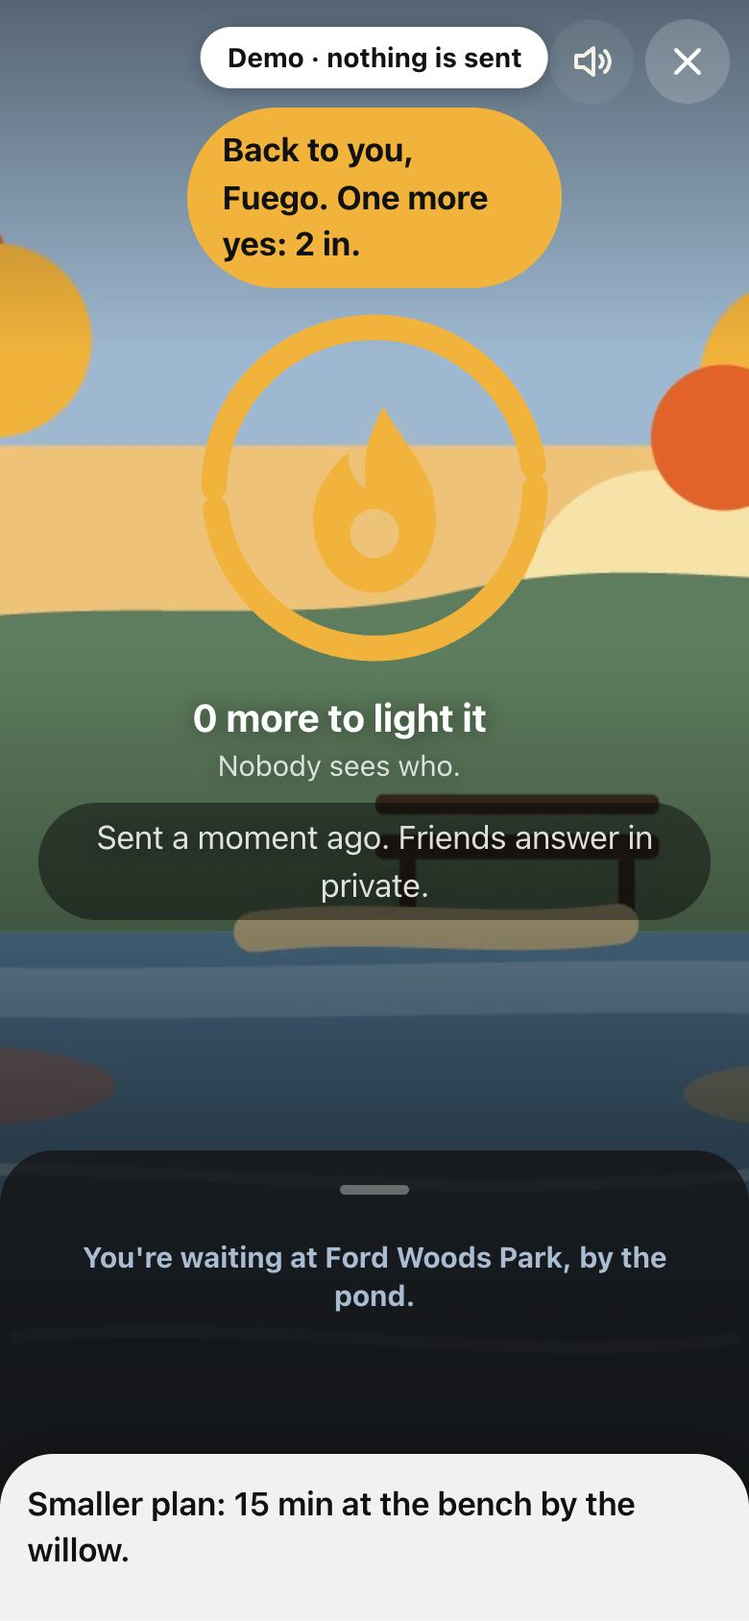
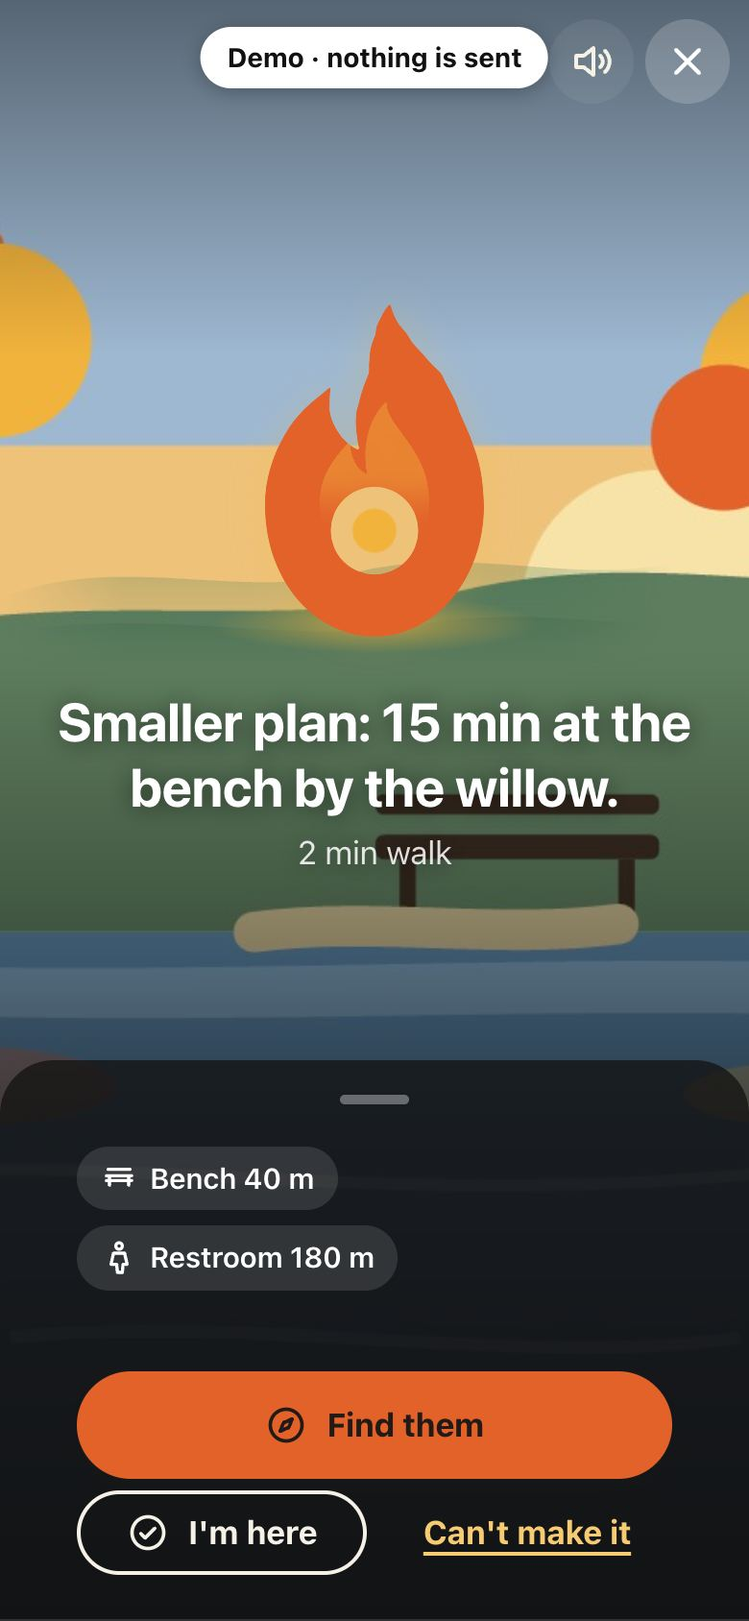
Website: feature cards and a Built with strip (backlog #14)
- Ten cards, one per feature that exists today (private yes, shrink
  to an Ember, the friend's one-tap join, Plans, the talking compass,
  bench-to-bench loops, the crew space, Sparks, Telegram and
  iMessage, deletion), each with a 240x360 WebP of the real screen
  (4-10 KB, lazy) and a line; one Try a demo at the end. Features
  still being built (Voice Flares, the Atlas, automations) get none.
- Built with: Gemma 4, Google AI Studio, DigitalOcean (paused for
  now), ElevenLabs, Sentry, Mastra, OpenStreetMap, Render, SvelteKit,
  each with what it does in Flare. Plain links, nothing fetched.
- Demo: Benny's yes comes 0.7 s after Skip and goes straight to lit,
  so the shrink never shows "0 more to light it".
Lighthouse 100 on all five pages, mobile and desktop.

Entire-Checkpoint: 01M4P3F8M86VAKW38FA19RJ1A7

diff --git a/apps/web/src/routes/(site)/Features.svelte b/apps/web/src/routes/(site)/Features.svelte
@@ -1,0 +1,34 @@
+<!-- W1 feature cards (backlog #14): one card per feature that exists today, each with a small
+     real screen from the app and a way into the demo. Features still being built get no card. -->
+<script lang="ts">
+  import { t, type CopyKey } from "#lib/copy/index.ts";
+  const cards = ["count", "shrink", "friend", "plan", "compass", "loop", "crew", "spark", "telegram", "gone"] as const;
+</script>
+
+<h2 class="t-title">{t("site.feat.title")}</h2>
+<ul class="cards">
+  {#each cards as c}
+    {@const title = t(`site.feat.${c}.t` as CopyKey)}
+    <li class="card">
+      <img src="/site/feat/{c}.webp" width="120" height="180" loading="lazy" decoding="async" alt={t("site.feat.alt", { title })} />
+      <div class="txt">
+        <h3>{title}</h3>
+        <p>{t(`site.feat.${c}.b` as CopyKey)}</p>
+      </div>
+    </li>
+  {/each}
+</ul>
+<p class="try"><a class="go" href="/app/demo/">{t("demo.try")}</a></p>
+
+<style>
+  .cards { list-style: none; margin: 16px 0 0; padding: 0; display: grid; gap: 14px; }
+  .card { display: grid; grid-template-columns: 96px 1fr; gap: 14px; align-items: center; padding: 12px; border-radius: 22px;
+    background: linear-gradient(160deg, #f3ead9, #e5efe3); box-shadow: 0 6px 18px rgb(22 35 58 / 0.08); }
+  .card img { width: 96px; height: 144px; object-fit: cover; border-radius: 14px; background: #1b1512; }
+  .txt h3 { margin: 0; font-size: 1.1rem; font-weight: 800; color: #1d2b1f; }
+  .txt p { margin: 4px 0 0; color: #33402f; }
+  .try { margin: 22px 0 0; text-align: center; }
+  .go { display: inline-flex; min-height: 52px; align-items: center; padding: 0 26px; border-radius: 999px; background: var(--c-maple-700); color: var(--c-birch-50) !important; font-weight: 700; text-decoration: none; }
+  @media (min-width: 700px) { .cards { grid-template-columns: repeat(2, 1fr); } }
+  @media (min-width: 1100px) { .cards { grid-template-columns: repeat(3, 1fr); } }
+</style>

diff --git a/apps/web/src/routes/(site)/BuiltWith.svelte b/apps/web/src/routes/(site)/BuiltWith.svelte
@@ -1,0 +1,30 @@
+<!-- W1 "Built with" (backlog #14): each tool and what it does in Flare, in one line. Plain links,
+     no logos fetched from other sites. -->
+<script lang="ts">
+  import { t, type CopyKey } from "#lib/copy/index.ts";
+  const tools: [string, string, CopyKey][] = [
+    ["Gemma 4", "https://ai.google.dev/gemma", "site.built.gemma"],
+    ["Google AI Studio", "https://aistudio.google.com/", "site.built.google"],
+    ["DigitalOcean", "https://www.digitalocean.com/", "site.built.do"],
+    ["ElevenLabs", "https://elevenlabs.io/", "site.built.eleven"],
+    ["Sentry", "https://sentry.io/", "site.built.sentry"],
+    ["Mastra", "https://mastra.ai/", "site.built.mastra"],
+    ["OpenStreetMap", "https://www.openstreetmap.org/copyright", "site.built.osm"],
+    ["Render", "https://render.com/", "site.built.render"],
+    ["SvelteKit", "https://svelte.dev/docs/kit", "site.built.sveltekit"],
+  ];
+</script>
+
+<h2 class="t-title">{t("site.built.title")}</h2>
+<ul class="built">
+  {#each tools as [name, href, line]}
+    <li><a {href} rel="noopener noreferrer">{name}</a><span>{t(line)}</span></li>
+  {/each}
+</ul>
+
+<style>
+  .built { list-style: none; margin: 14px 0 0; padding: 0; display: grid; gap: 10px; }
+  .built li { display: grid; gap: 2px; padding: 12px 14px; border-radius: 16px; border: 1.5px solid var(--line); }
+  .built a { font-weight: 800; }
+  @media (min-width: 700px) { .built { grid-template-columns: repeat(3, 1fr); } }
+</style>

diff --git a/apps/web/src/routes/(site)/+page.svelte b/apps/web/src/routes/(site)/+page.svelte
@@ -6,6 +6,8 @@
   import Seo from "./Seo.svelte";
   import Steps from "./Steps.svelte";
   import Shrink from "./Shrink.svelte";
+  import Features from "./Features.svelte";
+  import BuiltWith from "./BuiltWith.svelte";
   import { reveal } from "./reveal.ts";
 
   const promises: CopyKey[] = ["site.privacy.p1", "site.privacy.p2", "site.privacy.p3", "site.privacy.p4", "site.privacy.p5"];
@@ -37,6 +39,10 @@
   <p class="more"><a href="/how/">{t("site.home.readHow")}</a></p>
 </section>
 
+<section class="band feat" use:reveal>
+  <Features />
+</section>
+
 <section class="band alt" use:reveal>
   <Shrink />
 </section>
@@ -55,6 +61,10 @@
     {#each access as [icon, key]}<li><Icon name={icon} /><span>{t(key)}</span></li>{/each}
   </ul>
   <p class="more"><a href="/accessibility/">{t("site.home.readAccess")}</a></p>
+</section>
+
+<section class="band alt" use:reveal>
+  <BuiltWith />
 </section>
 
 <section class="band" use:reveal>

diff --git a/apps/web/src/routes/app/demo/+page.svelte b/apps/web/src/routes/app/demo/+page.svelte
@@ -89,12 +89,13 @@
     demo.advance(30 * 60_000 + 1000); // the real 30-minute Ember rule
     // Amor's phone checks both benches; Benny says yes to the smaller plan.
     demo.event({ type: "checks", member_id: DEMO_FRIENDS[0].id, results: { c1: true, c2: true } });
-    later(1500, () => {
+    later(700, () => {
       demo.yes(DEMO_FRIENDS[1].id);
       demo.advance(61_000);
-      // Show the yes that lit it, then "It's lit" (round 3: every yes is seen as a count).
+      // The yes that lit it shows as a count over "It's lit" (the toast floats above every
+      // screen), so there is never a "0 more" beat (fresh-eyes #8, round 3).
       say();
-      if (demo.g?.state === "lit") later(1600, toLit);
+      if (demo.g?.state === "lit") toLit();
     });
   }
   function toLit() {

diff --git a/apps/web/test/e2e/demo.ts b/apps/web/test/e2e/demo.ts
@@ -71,6 +71,7 @@ try {
       () => true,
       () => false,
     );
+  await page.getByRole("button", { name: "Find them" }).waitFor({ timeout: 10_000 });
   check("30 min later it shrinks to an Ember at a bench, and lights (real engine)", lit);
   await shot("3-ember-lit");
   await page.getByRole("button", { name: "Find them" }).click();

diff --git a/docs/content/03-checks.md b/docs/content/03-checks.md
@@ -4,7 +4,7 @@ Generated by `design/prototype/scripts/copy-lint.mjs`. Run it from `design/proto
 
 ## Result
 
-- Strings checked: **862** keys (10 with a singular form), in 23 kinds: title 126, aria 31, status 74, label 77, button 118, hint 72, message 106, heading 1, prose 106, separator 2, error 30, placeholder 7, share 7, option 13, fragment 33, spoken 4, export 1, push 12, bot 18, log 1, sms 4, og-title 9, og-desc 10.
+- Strings checked: **895** keys (10 with a singular form), in 23 kinds: title 138, aria 32, status 74, label 77, button 119, hint 72, message 106, heading 1, prose 125, separator 2, error 30, placeholder 7, share 7, option 13, fragment 33, spoken 4, export 1, push 12, bot 18, log 1, sms 4, og-title 9, og-desc 10.
 - Problems: **0**.
 - Longest button: 3 words (limit 3). Longest UI string: 12 words (limit 12). Longest prose sentence: 24 words (limit 25).
 - Fixed requirement strings present word for word: 41 of 41.
@@ -32,13 +32,13 @@ Every string, raw template and filled sample, against each rule:
 
 ## Readability (Flesch-Kincaid grade)
 
-Formula: 0.39 × (words ÷ sentences) + 11.8 × (syllables ÷ words) − 15.59, in `scripts/readability.mjs`. Strings of 4 words or more are graded (513); the other 337 are buttons and labels of 1 to 3 words, where one long word decides the score and the grade means nothing. Scores below 0 count as 0 in the averages. Target: about grade 6.
+Formula: 0.39 × (words ÷ sentences) + 11.8 × (syllables ÷ words) − 15.59, in `scripts/readability.mjs`. Strings of 4 words or more are graded (540); the other 343 are buttons and labels of 1 to 3 words, where one long word decides the score and the grade means nothing. Scores below 0 count as 0 in the averages. Target: about grade 6.
 
 | Group | Strings | Average grade | Over 8 |
 | --- | --- | --- | --- |
-| All graded strings | 513 | 2.0 | 9 |
-| UI (buttons, messages, labels, push, bot) | 398 | 1.5 | 3 |
-| Prose (website, statements, exports) | 115 | 3.9 | 6 |
+| All graded strings | 540 | 2.1 | 9 |
+| UI (buttons, messages, labels, push, bot) | 406 | 1.5 | 3 |
+| Prose (website, statements, exports) | 134 | 3.9 | 6 |
 
 Strings above grade 8, and why they stay:
 
@@ -152,7 +152,7 @@ Note for engineering: the "…" that BR-CH-2 asks for is not in the GSM-7 alphab
 These strings are final but live in channels or components outside this role's files. Each group says who wires it.
 
 - **Component (wire after merge): Screen.svelte** (2): `app.close`, `app.menu`
-- **Engineering or design to place** (298): `app.sending`, `app.loading`, `app.waking`, `home.golden`, `home.goldenH`, `home.goldenNow`, `home.goldenLeft`, `home.after`, `home.outside`, `home.dry`, `home.rain`, `home.green`, `home.light`, `home.plan`, `home.near`, `home.nearNote`, `demo.badge`, `demo.try`, `demo.skip`, `demo.asFriend`, `demo.said`, `demo.youWait`, `demo.you`, `demo.friendCoach`, `demo.friendBanner`, `demo.backToYou`, `demo.intro`, `demo.inIf`, `demo.back`, `demo.shrinkHint`, `demo.done`, `demo.again`, `demo.real`, `onb.1.title`, `onb.1.body`, `onb.2.title`, `onb.2.body`, `onb.3.title`, `onb.3.body`, `onb.next`, `onb.skip`, `onb.name`, `onb.nameHint`, `onb.go`, `onb.how`, `onb.link`, `onb.pasteLabel`, `onb.open`, `onb.badLink`, `onb.linkHelp`, `onb.cardAria`, `tip.home`, `tip.invite`, `tip.compass`, `tip.send`, `crew.title`, `crew.outNow`, `crew.week`, `crew.weekMin`, `crew.weekNone`, `crew.stats`, `crew.places`, `crew.placesEmpty`, `crew.manage`, `crew.light`, `crew.empty`, `crew.rename`, `crew.quorum`, `crew.saved`, `crew.never`, `crew.fresh`, `crew.freshTitle`, `crew.freshBody`, `crew.freshYes`, `crew.freshNo`, `crew.freshDone`, `menu.crew`, `menu.crewSub`, `app.tier.phone`, `app.tier.rules`, `app.dot`, `err.server`, `err.rateLimit`, `err.over`, `err.sealPhoto`, `err.storageFull`, `err.oldBrowser`, `err.inAppBrowser`, `perm.locationHost.title`, `perm.locationHost.body`, `perm.locationHost.allow`, `perm.locationHost.alt`, `perm.locationHost.denied`, `perm.locationHost.label`, `perm.locationHost.placeholder`, `perm.locationFriend.title`, `perm.locationFriend.body`, `perm.locationFriend.allow`, `perm.locationFriend.alt`, `perm.locationFriend.denied`, `perm.motion.title`, `perm.motion.body`, `perm.motion.allow`, `perm.motion.alt`, `perm.motion.denied`, `perm.notify.title`, `perm.notify.body`, `perm.notify.allow`, `perm.notify.alt`, `perm.notify.homeScreen`, `perm.notify.homeScreenHow`, `perm.notify.denied`, `perm.mic.title`, `perm.mic.body`, `perm.mic.body2`, `perm.mic.allow`, `perm.mic.alt`, `perm.mic.denied`, `develop.tooLong`, `send.hostLineEmpty`, `send.edit`, `sent.copyText`, `sent.copied`, `host.kindling.justSent`, `host.cancel.title`, `host.cancel.body`, `host.cancel.yes`, `host.cancel.no`, `host.textYes.open`, `host.textYes.label`, `host.textYes.hint`, `host.textYes.add`, `host.textYes.done`, `host.textYes.max`, `host.textYes.wrong`, `host.live.title`, `host.live.body`, `host.live.yes`, `host.live.no`, `join.full`, `invite.where`, `cond.listening`, `cond.tooMany`, `readback.line`, `readback.rule.after`, `readback.rule.maxWalk`, `readback.chip.after`, `readback.chip.maxWalk`, `readback.plain.title`, `readback.plain.yes`, `readback.plain.no`, `in.takenBack`, `notSuit.restroom`, `access.benchHere`, `access.noneNear`, `access.unknown`, `need.toLight`, `need.private`, `lit.together`, `lit.cantSheet.title`, `lit.cantSheet.body`, `lit.cantSheet.yes`, `lit.cantSheet.no`, `lit.cantDone`, `voice.meters`, `voice.km`, `voice.ahead`, `voice.close`, `voice.title`, `voice.sub`, `voice.try`, `compass.start`, `compass.near`, `compass.apart`, `compass.figure8`, `spark.say`, `spark.stop`, `spark.listening`, `spark.working`, `spark.sayNote`, `spark.sayFail`, `outside.together`, `outside.away`, `outside.awayBody`, `outside.awayCta`, `plan.pickStart`, `plan.pickDeadline`, `plan.err.tooSoon`, `plan.err.tooFar`, `ladder.madeRules`, `ladder.template.step1`, `ladder.template.step2`, `ladder.template.step3`, `ladder.template.step4`, `ladder.sunsetOff`, `ladder.err.order`, `planLit.ember`, `fade.newSpot`, `menu.tg`, `menu.tgSub`, `forget.title`, `forget.body`, `forget.last`, `forget.yes`, `forget.no`, `forget.done`, `more.noGroup`, `forget.failed`, `needs.saved`, `check.copied`, `loop.stopReading`, `loop.noLocation`, `loop.noMap`, `loop.hint`, `loop.finding`, `loop.card.title`, `loop.turn.water`, `map.exportFile`, `map.photoGone`, `map.noteText`, `map.pick`, `map.starter`, `map.changeLabel`, `map.badValue`, `map.save`, `map.noLocation`, `map.copied`, `map.photoAsk`, `map.noPhoto`, `map.drafted`, `map.noDraft`, `site.nav.skip`, `site.nav.footAria`, `site.nav.open`, `site.hero.shotAlt`, `site.walk.title`, `site.walk.lead`, `site.walk.send.t`, `site.walk.send.b`, `site.walk.friend.t`, `site.walk.friend.b`, `site.walk.count.t`, `site.walk.count.b`, `site.walk.lit.t`, `site.walk.lit.b`, `site.walk.find.t`, `site.walk.find.b`, `site.walk.after.t`, `site.walk.after.b`, `site.walk.try`, `site.walk.alt`, `site.home.readHow`, `site.home.readPrivacy`, `site.home.readAccess`, `site.home.readRun`, `site.how.gemma`, `site.privacy.audit.live`, `site.privacy.audit.pass`, `site.privacy.audit.fail`, `site.privacy.audit.down`, `site.privacy.audit.colStore`, `site.privacy.audit.colLeft`, `site.privacy.audit.colTotal`, `site.privacy.audit.caption`, `site.run.needs`, `site.run.s1`, `site.run.s2`, `site.run.s3`, `site.run.db`, `site.run.license`, `app.soundOff`, `app.soundOn`, `app.updateReady`, `app.updateReload`, `app.outboxDropped`, `install.title`, `install.body`, `install.cta`, `install.later`, `install.done`, `tg.title`, `tg.what`, `tg.sees`, `tg.add`, `tg.steps`, `tg.connected`, `tg.notYet`, `tg.photos`, `tg.photosNote`, `tg.photosOffNote`, `tg.on`, `tg.off`, `tg.saved`, `tg.unavailable`, `site.privacy.l.sentry`, `site.privacy.l.cloud`, `site.privacy.l.voice`, `site.privacy.l.sleep`
+- **Engineering or design to place** (331): `app.sending`, `app.loading`, `app.waking`, `home.golden`, `home.goldenH`, `home.goldenNow`, `home.goldenLeft`, `home.after`, `home.outside`, `home.dry`, `home.rain`, `home.green`, `home.light`, `home.plan`, `home.near`, `home.nearNote`, `demo.badge`, `demo.try`, `demo.skip`, `demo.asFriend`, `demo.said`, `demo.youWait`, `demo.you`, `demo.friendCoach`, `demo.friendBanner`, `demo.backToYou`, `demo.intro`, `demo.inIf`, `demo.back`, `demo.shrinkHint`, `demo.done`, `demo.again`, `demo.real`, `onb.1.title`, `onb.1.body`, `onb.2.title`, `onb.2.body`, `onb.3.title`, `onb.3.body`, `onb.next`, `onb.skip`, `onb.name`, `onb.nameHint`, `onb.go`, `onb.how`, `onb.link`, `onb.pasteLabel`, `onb.open`, `onb.badLink`, `onb.linkHelp`, `onb.cardAria`, `tip.home`, `tip.invite`, `tip.compass`, `tip.send`, `crew.title`, `crew.outNow`, `crew.week`, `crew.weekMin`, `crew.weekNone`, `crew.stats`, `crew.places`, `crew.placesEmpty`, `crew.manage`, `crew.light`, `crew.empty`, `crew.rename`, `crew.quorum`, `crew.saved`, `crew.never`, `crew.fresh`, `crew.freshTitle`, `crew.freshBody`, `crew.freshYes`, `crew.freshNo`, `crew.freshDone`, `menu.crew`, `menu.crewSub`, `app.tier.phone`, `app.tier.rules`, `app.dot`, `err.server`, `err.rateLimit`, `err.over`, `err.sealPhoto`, `err.storageFull`, `err.oldBrowser`, `err.inAppBrowser`, `perm.locationHost.title`, `perm.locationHost.body`, `perm.locationHost.allow`, `perm.locationHost.alt`, `perm.locationHost.denied`, `perm.locationHost.label`, `perm.locationHost.placeholder`, `perm.locationFriend.title`, `perm.locationFriend.body`, `perm.locationFriend.allow`, `perm.locationFriend.alt`, `perm.locationFriend.denied`, `perm.motion.title`, `perm.motion.body`, `perm.motion.allow`, `perm.motion.alt`, `perm.motion.denied`, `perm.notify.title`, `perm.notify.body`, `perm.notify.allow`, `perm.notify.alt`, `perm.notify.homeScreen`, `perm.notify.homeScreenHow`, `perm.notify.denied`, `perm.mic.title`, `perm.mic.body`, `perm.mic.body2`, `perm.mic.allow`, `perm.mic.alt`, `perm.mic.denied`, `develop.tooLong`, `send.hostLineEmpty`, `send.edit`, `sent.copyText`, `sent.copied`, `host.kindling.justSent`, `host.cancel.title`, `host.cancel.body`, `host.cancel.yes`, `host.cancel.no`, `host.textYes.open`, `host.textYes.label`, `host.textYes.hint`, `host.textYes.add`, `host.textYes.done`, `host.textYes.max`, `host.textYes.wrong`, `host.live.title`, `host.live.body`, `host.live.yes`, `host.live.no`, `join.full`, `invite.where`, `cond.listening`, `cond.tooMany`, `readback.line`, `readback.rule.after`, `readback.rule.maxWalk`, `readback.chip.after`, `readback.chip.maxWalk`, `readback.plain.title`, `readback.plain.yes`, `readback.plain.no`, `in.takenBack`, `notSuit.restroom`, `access.benchHere`, `access.noneNear`, `access.unknown`, `need.toLight`, `need.private`, `lit.together`, `lit.cantSheet.title`, `lit.cantSheet.body`, `lit.cantSheet.yes`, `lit.cantSheet.no`, `lit.cantDone`, `voice.meters`, `voice.km`, `voice.ahead`, `voice.close`, `voice.title`, `voice.sub`, `voice.try`, `compass.start`, `compass.near`, `compass.apart`, `compass.figure8`, `spark.say`, `spark.stop`, `spark.listening`, `spark.working`, `spark.sayNote`, `spark.sayFail`, `outside.together`, `outside.away`, `outside.awayBody`, `outside.awayCta`, `plan.pickStart`, `plan.pickDeadline`, `plan.err.tooSoon`, `plan.err.tooFar`, `ladder.madeRules`, `ladder.template.step1`, `ladder.template.step2`, `ladder.template.step3`, `ladder.template.step4`, `ladder.sunsetOff`, `ladder.err.order`, `planLit.ember`, `fade.newSpot`, `menu.tg`, `menu.tgSub`, `forget.title`, `forget.body`, `forget.last`, `forget.yes`, `forget.no`, `forget.done`, `more.noGroup`, `forget.failed`, `needs.saved`, `check.copied`, `loop.stopReading`, `loop.noLocation`, `loop.noMap`, `loop.hint`, `loop.finding`, `loop.card.title`, `loop.turn.water`, `map.exportFile`, `map.photoGone`, `map.noteText`, `map.pick`, `map.starter`, `map.changeLabel`, `map.badValue`, `map.save`, `map.noLocation`, `map.copied`, `map.photoAsk`, `map.noPhoto`, `map.drafted`, `map.noDraft`, `site.nav.skip`, `site.nav.footAria`, `site.nav.open`, `site.hero.shotAlt`, `site.walk.title`, `site.walk.lead`, `site.walk.send.t`, `site.walk.send.b`, `site.walk.friend.t`, `site.walk.friend.b`, `site.walk.count.t`, `site.walk.count.b`, `site.walk.lit.t`, `site.walk.lit.b`, `site.walk.find.t`, `site.walk.find.b`, `site.walk.after.t`, `site.walk.after.b`, `site.walk.try`, `site.walk.alt`, `site.feat.title`, `site.feat.try`, `site.feat.count.t`, `site.feat.count.b`, `site.feat.shrink.t`, `site.feat.shrink.b`, `site.feat.plan.t`, `site.feat.plan.b`, `site.feat.compass.t`, `site.feat.compass.b`, `site.feat.friend.t`, `site.feat.friend.b`, `site.feat.loop.t`, `site.feat.loop.b`, `site.feat.crew.t`, `site.feat.crew.b`, `site.feat.spark.t`, `site.feat.spark.b`, `site.feat.telegram.t`, `site.feat.telegram.b`, `site.feat.gone.t`, `site.feat.gone.b`, `site.feat.alt`, `site.built.title`, `site.built.gemma`, `site.built.google`, `site.built.do`, `site.built.eleven`, `site.built.sentry`, `site.built.mastra`, `site.built.osm`, `site.built.render`, `site.built.sveltekit`, `site.home.readHow`, `site.home.readPrivacy`, `site.home.readAccess`, `site.home.readRun`, `site.how.gemma`, `site.privacy.audit.live`, `site.privacy.audit.pass`, `site.privacy.audit.fail`, `site.privacy.audit.down`, `site.privacy.audit.colStore`, `site.privacy.audit.colLeft`, `site.privacy.audit.colTotal`, `site.privacy.audit.caption`, `site.run.needs`, `site.run.s1`, `site.run.s2`, `site.run.s3`, `site.run.db`, `site.run.license`, `app.soundOff`, `app.soundOn`, `app.updateReady`, `app.updateReload`, `app.outboxDropped`, `install.title`, `install.body`, `install.cta`, `install.later`, `install.done`, `tg.title`, `tg.what`, `tg.sees`, `tg.add`, `tg.steps`, `tg.connected`, `tg.notYet`, `tg.photos`, `tg.photosNote`, `tg.photosOffNote`, `tg.on`, `tg.off`, `tg.saved`, `tg.unavailable`, `site.privacy.l.sentry`, `site.privacy.l.cloud`, `site.privacy.l.voice`, `site.privacy.l.sleep`
 - **Component (wire after merge): apps/web/src/lib/ai** (6): `develop.empty`, `ladder.err.minutes`, `ladder.err.total`, `ladder.err.name`, `app.tier.cloud`, `ladder.madeCloud`
 - **Channel (engineering): share** (7): `share.flare.title`, `share.flare.text`, `share.plan.title`, `share.plan.text`, `share.card.title`, `share.card.text`, `share.note.title`
 - **Component (wire after merge): motion:PhotoPrint** (1): `invite.photoFallback`

diff --git a/docs/content/02-copy-deck.md b/docs/content/02-copy-deck.md
@@ -2,7 +2,7 @@
 
 Generated by `design/prototype/scripts/copy-lint.mjs` from `design/prototype/src/lib/copy/deck.json` (version 1.0, 2026-10-10). Do not edit this file by hand; edit the JSON and run the script.
 
-862 keys. Text is the template; **Words** and **Grade** are measured on the template filled with the sample values in `meta.sample` (Fuego, Ford Woods Park, by the pond). **Source** is the requirement a fixed string comes from; those must not change without a change request.
+895 keys. Text is the template; **Words** and **Grade** are measured on the template filled with the sample values in `meta.sample` (Fuego, Ford Woods Park, by the pond). **Source** is the requirement a fixed string comes from; those must not change without a change request.
 
 Variants in force: `privacy.coords` = B, `og.link` = safe. A = server holds spot coordinates until Gone (analyst decision 10, current requirements). B = OQ-1 adopted: coordinates only inside the sealed invite. B is in force: ADR-0009 adopted OQ-1. safe = preview uses only what the server can read (count, not the invite). full = BR-CH-4 as written (invite line in the preview); needs the server to hold the six words in plain text, which the architect must approve.
 
@@ -993,6 +993,39 @@ Variants in force: `privacy.coords` = B, `og.link` = safe. A = server holds spot
 | `site.walk.after.b` | You see how long you were outside. The Flare deletes itself. | prose | 11 | 1.6 | W2 /how/ walkthrough (fresh-eyes #18) |  |
 | `site.walk.try` | Try the demo | button | 3 | 1.3 | W2 /how/ walkthrough (fresh-eyes #18) |  |
 | `site.walk.alt` | The {step} screen in the Flare demo | aria | 8 | 0.8 | W2 /how/ walkthrough (fresh-eyes #18) |  |
+| `site.feat.title` | What it does | title | 3 | -2.6 | W1 home, feature cards and Built with (backlog #14) |  |
+| `site.feat.try` | Try it | button | 2 | -3.0 | W1 home, feature cards and Built with (backlog #14) |  |
+| `site.feat.count.t` | Yes in private | title | 3 | 1.3 | W1 home, feature cards and Built with (backlog #14) |  |
+| `site.feat.count.b` | Friends tap I'm in. Everyone sees the count, never who. | prose | 10 | 1.7 | W1 home, feature cards and Built with (backlog #14) |  |
+| `site.feat.shrink.t` | Too few? It shrinks | title | 4 | -3.0 | W1 home, feature cards and Built with (backlog #14) |  |
+| `site.feat.shrink.b` | After 30 minutes it offers 15 minutes at a bench nearby. | prose | 11 | 5.9 | W1 home, feature cards and Built with (backlog #14) |  |
+| `site.feat.plan.t` | Plans that bend | title | 3 | -2.6 | W1 home, feature cards and Built with (backlog #14) |  |
+| `site.feat.plan.b` | Four steps, big to small. It picks the biggest one everyone can do. | prose | 13 | 1.5 | W1 home, feature cards and Built with (backlog #14) |  |
+| `site.feat.compass.t` | A compass that talks | title | 4 | 0.7 | W1 home, feature cards and Built with (backlog #14) |  |
+| `site.feat.compass.b` | It points to your friends with sound and buzz, in a warm voice if you like. | prose | 16 | 2.4 | W1 home, feature cards and Built with (backlog #14) |  |
+| `site.feat.friend.t` | One tap to join | title | 4 | -2.2 | W1 home, feature cards and Built with (backlog #14) |  |
+| `site.feat.friend.b` | Your friends open a link. No app to install, no account. | prose | 11 | 1.6 | W1 home, feature cards and Built with (backlog #14) |  |
+| `site.feat.loop.t` | Benches all the way | title | 4 | -2.2 | W1 home, feature cards and Built with (backlog #14) |  |
+| `site.feat.loop.b` | A walking loop from bench to bench, built from the map. | prose | 14 | 5.0 | W1 home, feature cards and Built with (backlog #14) |  |
+| `site.feat.crew.t` | A home for your crew | title | 5 | -1.8 | W1 home, feature cards and Built with (backlog #14) |  |
+| `site.feat.crew.b` | Your places and time outside together. Never who said no. | prose | 10 | 2.9 | W1 home, feature cards and Built with (backlog #14) |  |
+| `site.feat.spark.t` | One line to remember | title | 4 | 3.7 | W1 home, feature cards and Built with (backlog #14) |  |
+| `site.feat.spark.b` | After a meetup, leave a Spark. Type it, or say it. | prose | 11 | 0.5 | W1 home, feature cards and Built with (backlog #14) |  |
+| `site.feat.telegram.t` | Posts in your group chat | title | 5 | -1.8 | W1 home, feature cards and Built with (backlog #14) |  |
+| `site.feat.telegram.b` | A card in Telegram, or a text you paste into iMessage. | prose | 11 | 5.9 | W1 home, feature cards and Built with (backlog #14) |  |
+| `site.feat.gone.t` | Then it's gone | title | 3 | -2.6 | W1 home, feature cards and Built with (backlog #14) |  |
+| `site.feat.gone.b` | Within 5 minutes of the end, the Flare and every yes are deleted. | prose | 13 | 6.7 | W1 home, feature cards and Built with (backlog #14) |  |
+| `site.feat.alt` | The {title} screen in Flare | aria | 5 | 0.5 | W1 home, feature cards and Built with (backlog #14) |  |
+| `site.built.title` | Built with | title | 2 | -3.0 | W1 home, feature cards and Built with (backlog #14) |  |
+| `site.built.gemma` | Gemma 4 writes the invite and the Plan steps, on our laptop with Ollama. | prose | 14 | 5.9 | W1 home, feature cards and Built with (backlog #14) |  |
+| `site.built.google` | Google AI Studio runs Gemma 4 when our laptop is off. | prose | 11 | 4.8 | W1 home, feature cards and Built with (backlog #14) |  |
+| `site.built.do` | DigitalOcean is wired in as the first cloud tier, paused for now. | prose | 12 | 4.8 | W1 home, feature cards and Built with (backlog #14) |  |
+| `site.built.eleven` | ElevenLabs gives the compass its warm voice and turns a said Spark into words. | prose | 14 | 5.9 | W1 home, feature cards and Built with (backlog #14) |  |
+| `site.built.sentry` | Sentry times the AI path and never sees your words. | prose | 10 | 2.5 | W1 home, feature cards and Built with (backlog #14) |  |
+| `site.built.mastra` | Mastra runs an agent that drafts Plan steps, behind a switch. | prose | 11 | 3.7 | W1 home, feature cards and Built with (backlog #14) |  |
+| `site.built.osm` | OpenStreetMap supplies the benches, restrooms and paths. | prose | 7 | 7.4 | W1 home, feature cards and Built with (backlog #14) |  |
+| `site.built.render` | Render hosts the server on a free plan. | prose | 8 | 2.3 | W1 home, feature cards and Built with (backlog #14) |  |
+| `site.built.sveltekit` | SvelteKit builds this site and the app. | prose | 7 | 2.3 | W1 home, feature cards and Built with (backlog #14) |  |
 | `site.how.s1.title` | Snap where you are | title | 4 | -2.2 | site W2 |  |
 | `site.how.s1.body` | The photo develops like a print while an open model writes six words. Send the link to iMessage, WhatsApp or Telegram. | prose | 21 | 6.5 | site W2 |  |
 | `site.how.s2.title` | Friends say yes, in private | title | 5 | 0.5 | site W2 |  |
